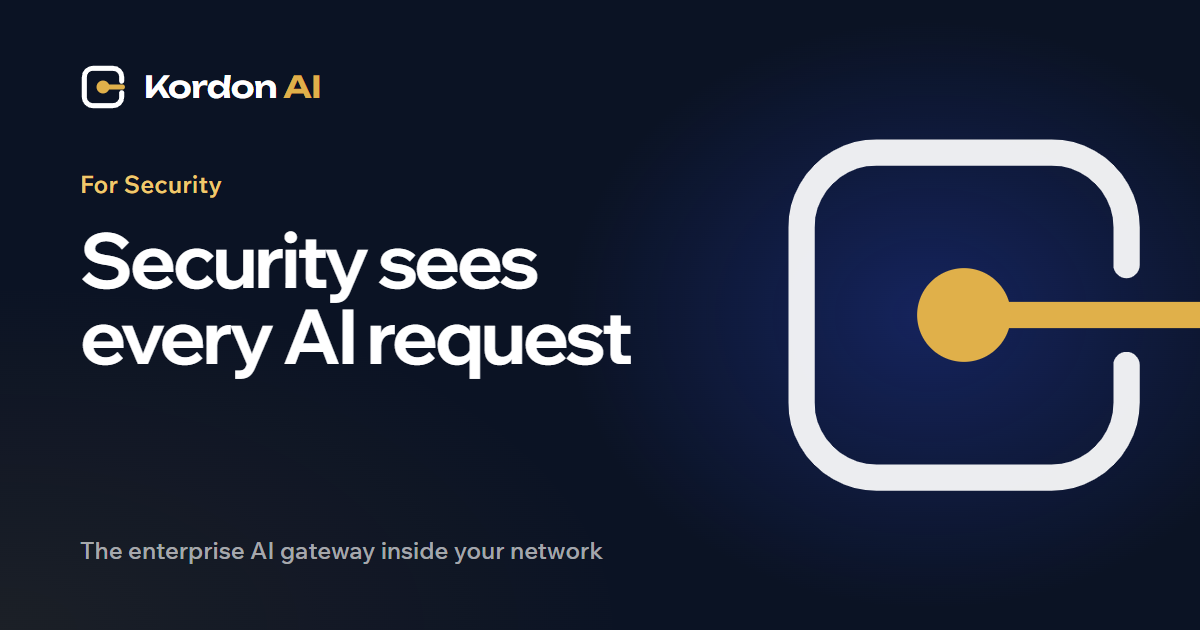
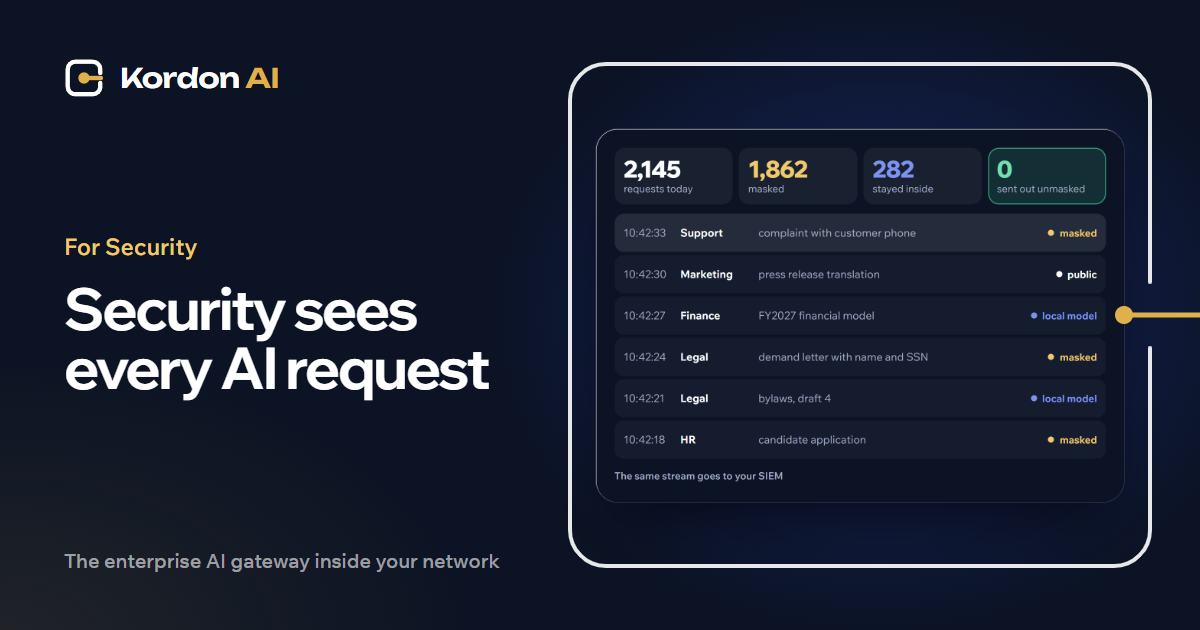
Link previews: a product shot inside the Perimeter
- public/og: 1200×630 previews for all 9 pages — the page headline on the left,
  a real scene from the site on the right (3D perimeter, masking sheet, spend
  report, license configurator, pilot pass) inside the brand contour with a
  gold channel out; 157–273 KB each
- OG_VERSION in seo.ts: image URLs carry ?v=2 so platforms drop cached previews

diff --git a/src/app/layout.tsx b/src/app/layout.tsx
@@ -4,7 +4,7 @@ import Nav from "@/components/Nav";
 import OffscreenPause from "@/components/OffscreenPause";
 import SmoothScroll from "@/components/SmoothScroll";
 import CookieBanner from "@/components/CookieBanner";
-import { SITE_NAME, SITE_URL } from "@/lib/seo";
+import { OG_VERSION, SITE_NAME, SITE_URL } from "@/lib/seo";
 import { brand, display, text } from "./fonts";
 import "./globals.css";
 
@@ -23,9 +23,9 @@ export const metadata: Metadata = {
     type: "website",
     locale: "en_US",
     siteName: SITE_NAME,
-    images: [{ url: "/og/home.png", width: 1200, height: 630, alt: "Kordon AI — security that pays for itself" }],
+    images: [{ url: `/og/home.png?v=${OG_VERSION}`, width: 1200, height: 630, alt: "Kordon AI — security that pays for itself" }],
   },
-  twitter: { card: "summary_large_image", images: ["/og/home.png"] },
+  twitter: { card: "summary_large_image", images: [`/og/home.png?v=${OG_VERSION}`] },
 };
 
 /* Schema.org markup: who makes the product and what the site is */

diff --git a/src/lib/seo.ts b/src/lib/seo.ts
@@ -6,6 +6,8 @@ import type { Metadata } from "next";
 
 export const SITE_URL = (process.env.NEXT_PUBLIC_SITE_URL || "https://kordon-ai.vercel.app").replace(/\/+$/, "");
 export const SITE_NAME = "Kordon AI";
+/* bump when the images in public/og change */
+export const OG_VERSION = 2;
 
 type Page = {
   /** page path: «/», «/pricing» */
@@ -22,7 +24,8 @@ type Page = {
 };
 
 export function pageMeta({ path, title, description, og, ogTitle, index = true }: Page): Metadata {
-  const image = { url: `/og/${og}.png`, width: 1200, height: 630, alt: ogTitle ?? title };
+  /* ?v — the preview version: messengers cache the image by its URL */
+  const image = { url: `/og/${og}.png?v=${OG_VERSION}`, width: 1200, height: 630, alt: ogTitle ?? title };
   return {
     title: path === "/" ? { absolute: title } : title,
     description,
